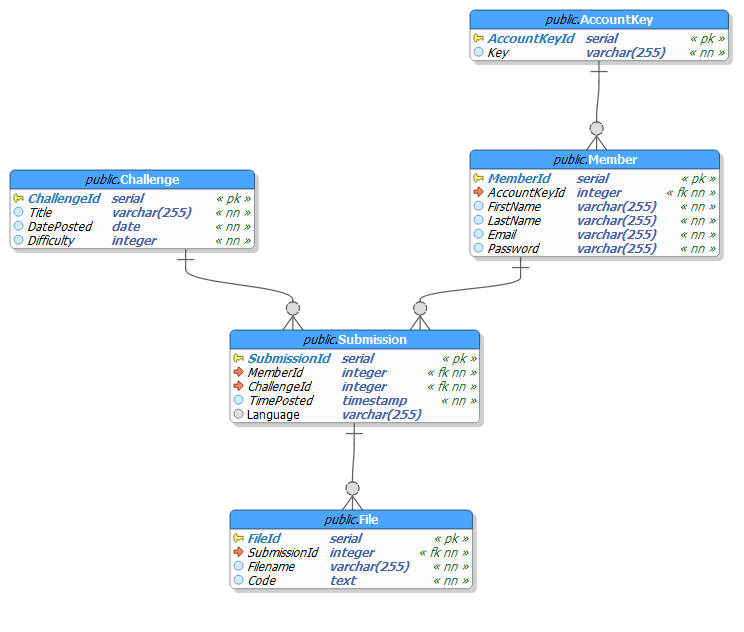
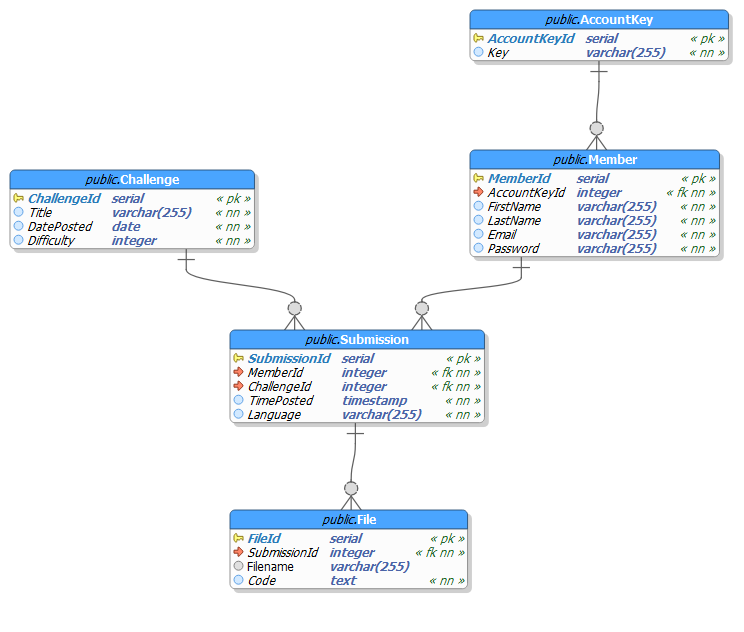
Make language selection mandatory

diff --git a/website/challenges/1/index.php b/website/challenges/1/index.php
@@ -117,8 +117,10 @@ if (isset($_POST['submit'])) {
           $language = 'Python';
         else if ($language == 'javascript')
           $language = 'JavaScript';
+        else if ($language == 'other')
+          $language = 'Other';
         else
-          $language = 'not set';
+          $language = 'ERROR';
 
         $submissionTime = date("M j, Y \a\\t g:i a", strtotime($submissionRow['TimePosted']));
 
@@ -142,14 +144,15 @@ if (isset($_POST['submit'])) {
 
       echo '<form action="' . $_SERVER['PHP_SELF'] . '" method="post">';
       echo '  <div id="code-submission-panel">';
+      echo '    <span class="label">Language: </span>';
       echo '    <select name="language">';
-      echo '      <option value="none">select language</option>';
-      echo '      <option value="java">java</option>';
-      echo '      <option value="c">c</option>';
-      echo '      <option value="csharp">c#</option>';
-      echo '      <option value="cpp">c++</option>';
-      echo '      <option value="python">python</option>';
-      echo '      <option value="javascript">javascript</option>';
+      echo '      <option value="java">Java</option>';
+      echo '      <option value="c">C</option>';
+      echo '      <option value="csharp">C#</option>';
+      echo '      <option value="cpp">C++</option>';
+      echo '      <option value="python">Python</option>';
+      echo '      <option value="javascript">JavaScript</option>';
+      echo '      <option value="other">Other</option>';
       echo '    </select>';
       echo '    <div id="file-area">';
       echo '      <div>';
